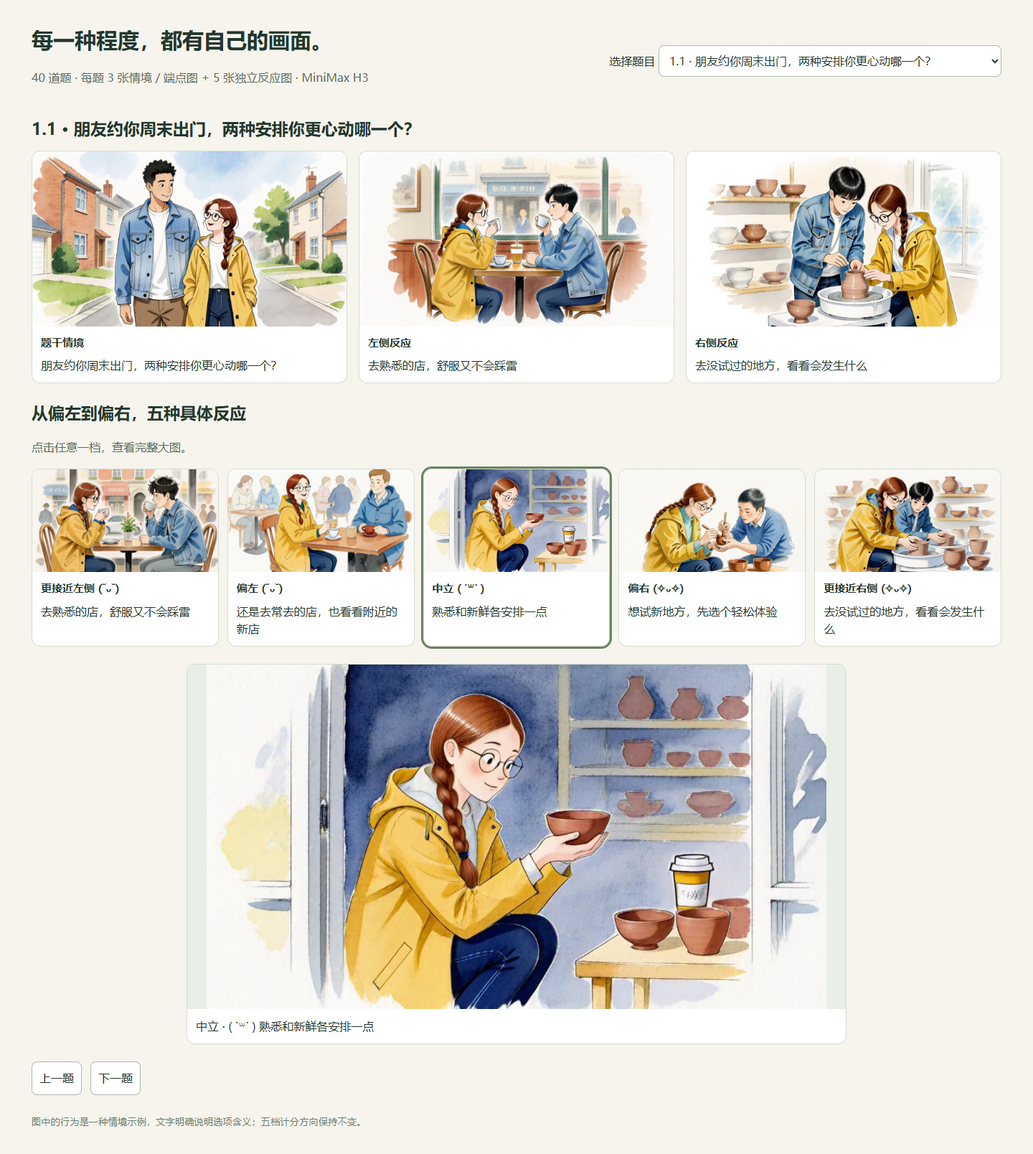
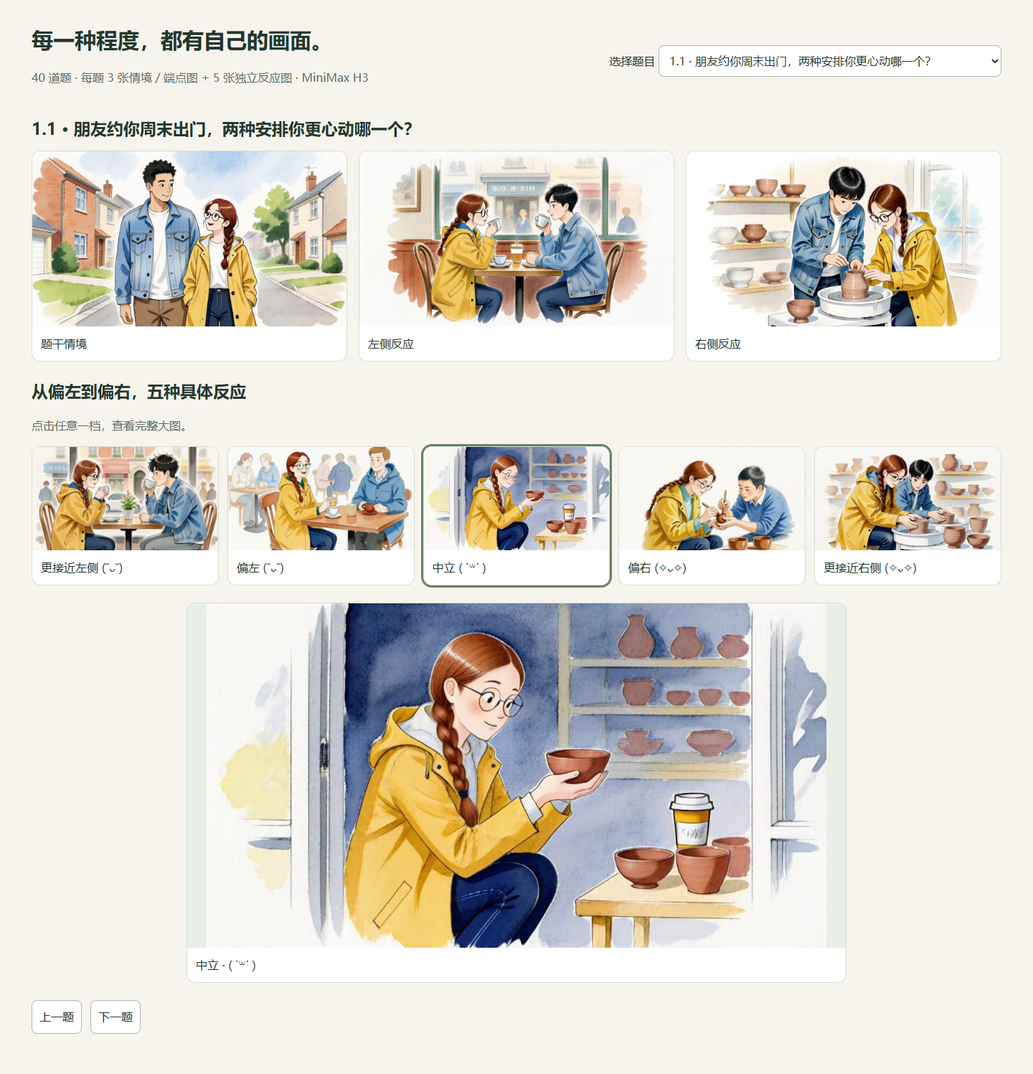
fix: show quiz reactions through images without explanatory captions

diff --git a/docs/五档题图预览.html b/docs/五档题图预览.html
@@ -1,9 +1,9 @@
 <!doctype html><html lang="zh-CN"><meta charset="utf-8"><meta name="viewport" content="width=device-width,initial-scale=1"><title>40 题 · 五档反应图预览</title>
 <style>*{box-sizing:border-box}body{margin:0;background:#f6f4ed;color:#23372d;font:16px/1.6 system-ui,sans-serif}main{max-width:1400px;margin:auto;padding:32px 24px}header{display:flex;justify-content:space-between;gap:24px;align-items:center}h1{font-size:30px;margin:0}p{color:#5c6b60}select,button{font:inherit;padding:10px;border:1px solid #aab9ad;border-radius:8px;background:#fff;color:#23372d}select{max-width:100%}h2{font-size:23px;margin:24px 0 12px}h3{font-size:15px;margin:0 0 8px}figure{margin:0;background:white;border:1px solid #d3ddd0;border-radius:12px;overflow:hidden}img{display:block;width:100%;height:auto;aspect-ratio:9/5;object-fit:contain;background:#e9eee6}figcaption{padding:12px;line-height:1.5}.originals{display:grid;grid-template-columns:repeat(3,1fr);gap:16px}.degrees{display:grid;grid-template-columns:repeat(5,1fr);gap:12px}.degrees figure{cursor:pointer}.degrees figure.active{outline:3px solid #698363}.face{display:block;margin-bottom:6px;color:#697f57}.detail{margin:24px auto;max-width:920px}.detail img{max-height:480px}small{color:#6b7b6e}.nav{display:flex;gap:12px;margin:24px 0}.nav button{cursor:pointer}@media(max-width:800px){header{display:block}select{margin-top:15px}.originals{grid-template-columns:1fr}.degrees{grid-template-columns:repeat(2,1fr)}h1{font-size:24px}main{padding:20px 14px}}</style>
-<main><header><div><h1>每一种程度，都有自己的画面。</h1><p>40 道题 · 每题 3 张情境／端点图 + 5 张独立反应图 · MiniMax H3</p></div><label>选择题目 <select id="question"></select></label></header><h2 id="title"></h2><section class="originals" id="originals"></section><h2>从偏左到偏右，五种具体反应</h2><p>点击任意一档，查看完整大图。</p><section class="degrees" id="degrees"></section><figure class="detail" id="detail"></figure><div class="nav"><button id="previous">上一题</button><button id="next">下一题</button></div><small>图中的行为是一种情境示例，文字明确说明选项含义；五档计分方向保持不变。</small></main>
+<main><header><div><h1>每一种程度，都有自己的画面。</h1><p>40 道题 · 每题 3 张情境／端点图 + 5 张独立反应图 · MiniMax H3</p></div><label>选择题目 <select id="question"></select></label></header><h2 id="title"></h2><section class="originals" id="originals"></section><h2>从偏左到偏右，五种具体反应</h2><p>点击任意一档，查看完整大图。</p><section class="degrees" id="degrees"></section><figure class="detail" id="detail"></figure><div class="nav"><button id="previous">上一题</button><button id="next">下一题</button></div></main>
 <script>const questions=[{"id":"1.1","prompt":"朋友约你周末出门，两种安排你更心动哪一个？","options":["去熟悉的店，舒服又不会踩雷","去没试过的地方，看看会发生什么"],"reactions":[{"caption":"去熟悉的店，舒服又不会踩雷","face":"(˘ᴗ˘)","symbol":"☕"},{"caption":"还是去常去的店，也看看附近的新店","face":"(˘ᴗ˘)","symbol":"☕"},{"caption":"熟悉和新鲜各安排一点","face":"( ˙꒳˙ )","symbol":"↔"},{"caption":"想试新地方，先选个轻松体验","face":"(✧ᴗ✧)","symbol":"🏺"},{"caption":"去没试过的地方，看看会发生什么","face":"(✧ᴗ✧)","symbol":"🏺"}]},{"id":"2.1","prompt":"周五要交的东西，你周三就有空做完。你通常会？","options":["提前完成，后面两天心里踏实","先做别的，临近截止再集中完成"],"reactions":[{"caption":"提前完成，后面两天心里踏实","face":"(˘ᴗ˘)","symbol":"✓"},{"caption":"先完成大部分，留一点收尾","face":"(˘ᴗ˘)","symbol":"✓"},{"caption":"工作和休息交替安排","face":"( ˙꒳˙ )","symbol":"↔"},{"caption":"先放松一下，但留出准备时间","face":"(^ᴗ^)","symbol":"🎸"},{"caption":"先做别的，临近截止再集中完成","face":"(^ᴗ^)","symbol":"🎸"}]},{"id":"3.1","prompt":"朋友讲错了一个你熟悉的细节，大家正聊得开心。你会？","options":["自然地补充一下，事情还是说准好","先接着聊，找私下的机会再提醒"],"reactions":[{"caption":"自然地补充一下，事情还是说准好","face":"(・○・)","symbol":"👥"},{"caption":"轻轻补充一句，不打断气氛","face":"(・○・)","symbol":"👥"},{"caption":"等聊天停一停，再自然补充","face":"( ˙꒳˙ )","symbol":"↔"},{"caption":"先接住话题，散场再轻声提醒","face":"(・ᴗ・)","symbol":"🤫"},{"caption":"先接着聊，找私下的机会再提醒","face":"(・ᴗ・)","symbol":"🤫"}]},{"id":"4.1","prompt":"朋友说“要是人生能存档就好了”，你更容易接哪句？","options":["那能试多少种不同的人生啊？","先把眼前这关过好，再想下一关"],"reactions":[{"caption":"那能试多少种不同的人生啊？","face":"(✧○✧)","symbol":"🌌"},{"caption":"想象别的人生，也想想当前这一关","face":"(✧○✧)","symbol":"🌌"},{"caption":"聊聊脑洞，再回到眼前的游戏","face":"( ˙꒳˙ )","symbol":"↔"},{"caption":"先玩眼前这关，偶尔接个脑洞","face":"(・ᴗ・)","symbol":"🎮"},{"caption":"先把眼前这关过好，再想下一关","face":"(・ᴗ・)","symbol":"🎮"}]},{"id":"5.1","prompt":"来到一个没什么熟人的聚会，你更可能？","options":["找个话题，先认识身边的人","先安静待着，等自然的聊天机会"],"reactions":[{"caption":"找个话题，先认识身边的人","face":"(＾▽＾)","symbol":"👋"},{"caption":"先和身边一个人聊几句","face":"(＾▽＾)","symbol":"👋"},{"caption":"先观察，遇到合适的人再聊","face":"( ˙꒳˙ )","symbol":"↔"},{"caption":"主要安静待着，有人来就聊两句","face":"(˘ᴗ˘)","symbol":"🍰"},{"caption":"先安静待着，等自然的聊天机会","face":"(˘ᴗ˘)","symbol":"🍰"}]},{"id":"6.1","prompt":"朋友最近进步很快，群里都在夸他，你心里更接近？","options":["替他开心，也忍不住看看自己落后没","替他开心，我也有自己的进度"],"reactions":[{"caption":"替他开心，也忍不住看看自己落后没","face":"(・_・;)","symbol":"📊"},{"caption":"会比较一下，也提醒自己慢慢来","face":"(・_・;)","symbol":"📊"},{"caption":"祝福朋友，也想想自己的节奏","face":"( ˙꒳˙ )","symbol":"↔"},{"caption":"主要按自己节奏，偶尔参考朋友","face":"(˘ᴗ˘)","symbol":"🌱"},{"caption":"替他开心，我也有自己的进度","face":"(˘ᴗ˘)","symbol":"🌱"}]},{"id":"7.1","prompt":"忙了很久，终于有一个自由的下午。你更想？","options":["随心看看，什么轻松就做什么","投入一直惦记的爱好，终于有空了"],"reactions":[{"caption":"随心看看，什么轻松就做什么","face":"(˘ᴗ˘)","symbol":"🫧"},{"caption":"先轻松逛逛，有兴致再碰爱好","face":"(˘ᴗ˘)","symbol":"🫧"},{"caption":"休息一会儿，再给爱好一点时间","face":"( ˙꒳˙ )","symbol":"↔"},{"caption":"主要做爱好，也给自己留点空闲","face":"(✧ᴗ✧)","symbol":"🎨"},{"caption":"投入一直惦记的爱好，终于有空了","face":"(✧ᴗ✧)","symbol":"🎨"}]},{"id":"8.1","prompt":"和一个人越来越亲近，你对关系的期待更像哪种？","options":["聊清彼此的定位，约定让人安心","先享受相处，不急着套进固定定义"],"reactions":[{"caption":"聊清彼此的定位，约定让人安心","face":"(˘ᴗ˘)","symbol":"🤝"},{"caption":"想聊清关系，也不急着一次定完","face":"(˘ᴗ˘)","symbol":"🤝"},{"caption":"享受相处，也慢慢交流彼此期待","face":"( ˙꒳˙ )","symbol":"↔"},{"caption":"先自在相处，需要时再聊定位","face":"(^ᴗ^)","symbol":"🫧"},{"caption":"先享受相处，不急着套进固定定义","face":"(^ᴗ^)","symbol":"🫧"}]},{"id":"9.1","prompt":"难得有个空闲晚上，家人喊你一起吃饭。你更想？","options":["这次留给自己，改天再好好聚","回去围坐一桌，热闹也让人充电"],"reactions":[{"caption":"这次留给自己，改天再好好聚","face":"(˘ᴗ˘)","symbol":"📖"},{"caption":"先给家人打个招呼，今晚留给自己","face":"(˘ᴗ˘)","symbol":"📖"},{"caption":"陪家人吃一会儿，也留独处时间","face":"( ˙꒳˙ )","symbol":"↔"},{"caption":"想回去相聚，之后留一点自己的时间","face":"(^ᴗ^)","symbol":"🍲"},{"caption":"回去围坐一桌，热闹也让人充电","face":"(^ᴗ^)","symbol":"🍲"}]},{"id":"10.1","prompt":"想开始一个小创作，什么更能推动你？","options":["脑子里有个成品，想把它做出来","过程应该很好玩，先试了再看"],"reactions":[{"caption":"脑子里有个成品，想把它做出来","face":"(・ᴗ・)","symbol":"🎯"},{"caption":"有个想做的成品，细节边做边调","face":"(・ᴗ・)","symbol":"🎯"},{"caption":"先有大致方向，再边玩边完成","face":"( ˙꒳˙ )","symbol":"↔"},{"caption":"先享受尝试，慢慢形成成品想法","face":"(✧ᴗ✧)","symbol":"🎨"},{"caption":"过程应该很好玩，先试了再看","face":"(✧ᴗ✧)","symbol":"🎨"}]},{"id":"1.2","prompt":"空出半小时，你打开视频软件，更想看什么？","options":["一直在追的内容，接着看就很开心","首页的陌生主题，说不定打开新世界"],"reactions":[{"caption":"一直在追的内容，接着看就很开心","face":"(˘ᴗ˘)","symbol":"↻"},{"caption":"先看追更，顺便瞄一眼新主题","face":"(˘ᴗ˘)","symbol":"↻"},{"caption":"两种都看看，再决定追哪个","face":"( ˙꒳˙ )","symbol":"↔"},{"caption":"先试新主题，感兴趣就继续","face":"(✧○✧)","symbol":"🪐"},{"caption":"首页的陌生主题，说不定打开新世界","face":"(✧○✧)","symbol":"🪐"}]},{"id":"2.2","prompt":"和朋友约了七点见面，按导航刚好能准时到。你会？","options":["按算好的时间出门，不用多等","再提前一点，给路上留些余量"],"reactions":[{"caption":"按算好的时间出门，不用多等","face":"(・ᴗ・)","symbol":"🚪"},{"caption":"按计划走，稍微早几分钟","face":"(・ᴗ・)","symbol":"🚪"},{"caption":"看看路况，再决定要早多少","face":"( ˙꒳˙ )","symbol":"↔"},{"caption":"提前一些到，不用等太久","face":"(˘ᴗ˘)","symbol":"⌛"},{"caption":"再提前一点，给路上留些余量","face":"(˘ᴗ˘)","symbol":"⌛"}]},{"id":"3.2","prompt":"和朋友讨论分歧，对方开始不开心，你更想？","options":["先把理由说明白，再一起讨论","先照顾情绪，平静下来再聊事情"],"reactions":[{"caption":"先把理由说明白，再一起讨论","face":"(・_・)","symbol":"🧩"},{"caption":"把理由说清，也留意对方感受","face":"(・_・)","symbol":"🧩"},{"caption":"一边说明，一边听对方感受","face":"( ˙꒳˙ )","symbol":"↔"},{"caption":"先安慰，再简短说说想法","face":"(˘ᴗ˘)","symbol":"🫶"},{"caption":"先照顾情绪，平静下来再聊事情","face":"(˘ᴗ˘)","symbol":"🫶"}]},{"id":"4.2","prompt":"聚会突然安静下来，你通常会？","options":["主动抛个话题，把大家接起来","自在地等一等，不急着打破安静"],"reactions":[{"caption":"主动抛个话题，把大家接起来","face":"(＾▽＾)","symbol":"👋"},{"caption":"轻轻起个头，看看大家想不想聊","face":"(＾▽＾)","symbol":"👋"},{"caption":"先等一下，有话题再接上","face":"( ˙꒳˙ )","symbol":"↔"},{"caption":"安心享受安静，有人开口就接话","face":"(˘ᴗ˘)","symbol":"🍵"},{"caption":"自在地等一等，不急着打破安静","face":"(˘ᴗ˘)","symbol":"🍵"}]},{"id":"5.2","prompt":"有人主动问你“第一次来吗”，你会？","options":["顺势聊下去，可能就认识新朋友了","礼貌回应几句，继续做自己的事"],"reactions":[{"caption":"顺势聊下去，可能就认识新朋友了","face":"(^ᴗ^)","symbol":"🤝"},{"caption":"聊一小会儿，看看是否投缘","face":"(^ᴗ^)","symbol":"🤝"},{"caption":"礼貌聊几句，再看想不想继续","face":"( ˙꒳˙ )","symbol":"↔"},{"caption":"简单回应，感兴趣的话题再多聊","face":"(˘ᴗ˘)","symbol":"🖼"},{"caption":"礼貌回应几句，继续做自己的事","face":"(˘ᴗ˘)","symbol":"🖼"}]},{"id":"6.2","prompt":"你刚学的东西，朋友说自己早就会了。你会？","options":["正好请教一下，按自己的节奏学","有点受刺激，想尽快追上他的水平"],"reactions":[{"caption":"正好请教一下，按自己的节奏学","face":"(・○・)","symbol":"🤝"},{"caption":"请教为主，也想练得更熟一点","face":"(・○・)","symbol":"🤝"},{"caption":"向朋友学，也给自己一点挑战","face":"( ˙꒳˙ )","symbol":"↔"},{"caption":"想快点追上，也愿意请教方法","face":"(ง•̀_•́)ง","symbol":"✍"},{"caption":"有点受刺激，想尽快追上他的水平","face":"(ง•̀_•́)ง","symbol":"✍"}]},{"id":"7.2","prompt":"喜欢的事迟迟没进展，另一个方向更容易出成果。你会？","options":["试试新方向，现在的机会也值得抓","再给喜欢的事一些时间，还想继续"],"reactions":[{"caption":"试试新方向，现在的机会也值得抓","face":"(・ᴗ・)","symbol":"↗"},{"caption":"多试新方向，旧爱好也先留着","face":"(・ᴗ・)","symbol":"↗"},{"caption":"两个方向都试一阵再决定","face":"( ˙꒳˙ )","symbol":"↔"},{"caption":"继续喜欢的事，也小试别的机会","face":"(ง•̀ᴗ•́)ง","symbol":"🌱"},{"caption":"再给喜欢的事一些时间，还想继续","face":"(ง•̀ᴗ•́)ง","symbol":"🌱"}]},{"id":"8.2","prompt":"两种生活地图摆在面前，你更愿意选哪张？","options":["路标清楚，能到达期待的地方","留着很多空白，可以画自己的路"],"reactions":[{"caption":"路标清楚，能到达期待的地方","face":"(・ᴗ・)","symbol":"📍"},{"caption":"沿清楚路线走，也留一点绕路空间","face":"(・ᴗ・)","symbol":"📍"},{"caption":"参考现成路线，再添自己的选择","face":"( ˙꒳˙ )","symbol":"↔"},{"caption":"主要画自己的路，保留有用路标","face":"(✧ᴗ✧)","symbol":"✏"},{"caption":"留着很多空白，可以画自己的路","face":"(✧ᴗ✧)","symbol":"✏"}]},{"id":"9.2","prompt":"和很亲近的人相处，哪种日常更让你舒服？","options":["彼此在意，也保留一点私人空间","很多小事都想分享，常常保持联系"],"reactions":[{"caption":"彼此在意，也保留一点私人空间","face":"(˘ᴗ˘)","symbol":"📖"},{"caption":"各做各的，偶尔分享一个小发现","face":"(˘ᴗ˘)","symbol":"📖"},{"caption":"有时一起分享，有时各自放松","face":"( ˙꒳˙ )","symbol":"↔"},{"caption":"常常分享，也给彼此一点安静","face":"(^ᴗ^)","symbol":"🤝"},{"caption":"很多小事都想分享，常常保持联系","face":"(^ᴗ^)","symbol":"🤝"}]},{"id":"10.2","prompt":"出门办事，路上发现一条很有意思的小街。你会？","options":["先把原定的事办完，再考虑绕回来","进去逛逛，沿途的发现也很重要"],"reactions":[{"caption":"先把原定的事办完，再考虑绕回来","face":"(・ᴗ・)","symbol":"🎯"},{"caption":"先办正事，把小街记下来","face":"(・ᴗ・)","symbol":"🎯"},{"caption":"先看时间，够用就短暂停一下","face":"( ˙꒳˙ )","symbol":"↔"},{"caption":"先逛一会儿，也记得原定的事","face":"(✧○✧)","symbol":"↗"},{"caption":"进去逛逛，沿途的发现也很重要","face":"(✧○✧)","symbol":"↗"}]},{"id":"1.3","prompt":"朋友对你很确定的一件事提出了新解释，你会？","options":["追问一下，也许有我没见过的角度","先保留判断，熟悉的经验更让我信服"],"reactions":[{"caption":"追问一下，也许有我没见过的角度","face":"(・○・)","symbol":"🔎"},{"caption":"愿意追问，也拿旧经验对照","face":"(・○・)","symbol":"🔎"},{"caption":"两种解释先放在一起比较","face":"( ˙꒳˙ )","symbol":"↔"},{"caption":"先信熟悉经验，也听听新解释","face":"(˘_˘)","symbol":"📒"},{"caption":"先保留判断，熟悉的经验更让我信服","face":"(˘_˘)","symbol":"📒"}]},{"id":"2.3","prompt":"明早要赶早班车，你今晚更可能怎么准备？","options":["东西装好，路线和闹钟都确认","带上必需品，明早看情况再安排"],"reactions":[{"caption":"东西装好，路线和闹钟都确认","face":"(・ᴗ・)","symbol":"🧳"},{"caption":"主要都备好，小细节明早再说","face":"(・ᴗ・)","symbol":"🧳"},{"caption":"必需品备齐，其余看情况","face":"( ˙꒳˙ )","symbol":"↔"},{"caption":"简单准备一下，就早点休息","face":"(˘ᴗ˘)","symbol":"💤"},{"caption":"带上必需品，明早看情况再安排","face":"(˘ᴗ˘)","symbol":"💤"}]},{"id":"3.3","prompt":"小组里两个人争起来，请你帮忙判断，你会先？","options":["听清各自的依据，看看哪边说得通","弄清各自的感受，先缓和下来"],"reactions":[{"caption":"听清各自的依据，看看哪边说得通","face":"(・_・)","symbol":"⚖"},{"caption":"先看依据，也听听双方委屈","face":"(・_・)","symbol":"⚖"},{"caption":"事实和感受都听完整","face":"( ˙꒳˙ )","symbol":"↔"},{"caption":"先缓和气氛，再核对依据","face":"(˘ᴗ˘)","symbol":"🫶"},{"caption":"弄清各自的感受，先缓和下来","face":"(˘ᴗ˘)","symbol":"🫶"}]},{"id":"4.3","prompt":"朋友发来一个奇怪的小谜题，你第一反应是？","options":["先解出来，看看答案是什么","他为什么问这个，背后有故事吗"],"reactions":[{"caption":"先解出来，看看答案是什么","face":"(・_・)","symbol":"🧩"},{"caption":"先试着解，也好奇朋友为什么问","face":"(・_・)","symbol":"🧩"},{"caption":"边解谜，边问问背后的故事","face":"( ˙꒳˙ )","symbol":"↔"},{"caption":"先问缘由，也顺手试解一下","face":"(・○・)","symbol":"👤"},{"caption":"他为什么问这个，背后有故事吗","face":"(・○・)","symbol":"👤"}]},{"id":"5.3","prompt":"刚认识的人说“改天一起玩”，你通常会？","options":["接着约时间，让下次真的发生","先留着联系，等合适的机会再说"],"reactions":[{"caption":"接着约时间，让下次真的发生","face":"(^ᴗ^)","symbol":"📅"},{"caption":"先提一个时间，对方方便再定","face":"(^ᴗ^)","symbol":"📅"},{"caption":"交换联系方式，看看彼此安排","face":"( ˙꒳˙ )","symbol":"↔"},{"caption":"先保持联系，暂时不定具体时间","face":"(˘ᴗ˘)","symbol":"👋"},{"caption":"先留着联系，等合适的机会再说","face":"(˘ᴗ˘)","symbol":"👋"}]},{"id":"6.3","prompt":"大家都在晒最近的成果，你更自然的反应是？","options":["看看就好，接着做自己的事","多看几遍，确认自己有没有掉队"],"reactions":[{"caption":"看看就好，接着做自己的事","face":"(˘ᴗ˘)","symbol":"🌱"},{"caption":"看一会儿，给自己的项目找灵感","face":"(˘ᴗ˘)","symbol":"🌱"},{"caption":"参考别人的成果，也看自己的进展","face":"( ˙꒳˙ )","symbol":"↔"},{"caption":"会多比较，但也提醒自己别太急","face":"(・_・;)","symbol":"📊"},{"caption":"多看几遍，确认自己有没有掉队","face":"(・_・;)","symbol":"📊"}]},{"id":"7.3","prompt":"很在意的目标遇到变化，需要改掉大半计划。你会？","options":["重新看看现在想要什么，目标也能换","方式可以换，核心愿望还想留住"],"reactions":[{"caption":"重新看看现在想要什么，目标也能换","face":"(・○・)","symbol":"🧭"},{"caption":"愿意调整目标，保留在意的部分","face":"(・○・)","symbol":"🧭"},{"caption":"重新衡量目标和实现方式","face":"( ˙꒳˙ )","symbol":"↔"},{"caption":"保留核心目标，其他部分可以变","face":"(・ᴗ・)","symbol":"🎯"},{"caption":"方式可以换，核心愿望还想留住","face":"(・ᴗ・)","symbol":"🎯"}]},{"id":"8.3","prompt":"大家说“这件事一直就是这么做的”，你会？","options":["现有做法能用，先按惯例推进","问问为什么，也许有另一种办法"],"reactions":[{"caption":"现有做法能用，先按惯例推进","face":"(・ᴗ・)","symbol":"↻"},{"caption":"先照常做，顺手看看哪里能改善","face":"(・ᴗ・)","symbol":"↻"},{"caption":"先理解做法，再决定要不要调整","face":"( ˙꒳˙ )","symbol":"↔"},{"caption":"试个新办法，也保留有效的步骤","face":"(・○・)","symbol":"💡"},{"caption":"问问为什么，也许有另一种办法","face":"(・○・)","symbol":"💡"}]},{"id":"9.3","prompt":"朋友群里总在分享吃了什么、走到哪里，你通常？","options":["偶尔看看，自己的日常留给自己","也发一点小事，参与彼此的生活"],"reactions":[{"caption":"偶尔看看，自己的日常留给自己","face":"(˘ᴗ˘)","symbol":"🔒"},{"caption":"大多看看，偶尔回应一下","face":"(˘ᴗ˘)","symbol":"🔒"},{"caption":"想分享的小事才发出来","face":"( ˙꒳˙ )","symbol":"↔"},{"caption":"经常分享，也保留一些私人时刻","face":"(^ᴗ^)","symbol":"📷"},{"caption":"也发一点小事，参与彼此的生活","face":"(^ᴗ^)","symbol":"📷"}]},{"id":"10.3","prompt":"几场想去的活动撞了时间，你更倾向？","options":["挑最想去的一场，从头体验到尾","每场感受一点，多看看不同内容"],"reactions":[{"caption":"挑最想去的一场，从头体验到尾","face":"(˘ᴗ˘)","symbol":"🎟"},{"caption":"以最想去的一场为主，顺便看看别的","face":"(˘ᴗ˘)","symbol":"🎟"},{"caption":"挑一场深入，再逛一场感兴趣的","face":"( ˙꒳˙ )","symbol":"↔"},{"caption":"多走几场，特别喜欢的就多待一会儿","face":"(✧ᴗ✧)","symbol":"↔"},{"caption":"每场感受一点，多看看不同内容","face":"(✧ᴗ✧)","symbol":"↔"}]},{"id":"1.4","prompt":"和朋友去陌生城市吃饭，你更偏向哪家？","options":["吃过的连锁店，味道心里有数","没见过的小店，试试当地的新鲜感"],"reactions":[{"caption":"吃过的连锁店，味道心里有数","face":"(˘ᴗ˘)","symbol":"🍱"},{"caption":"大多选熟悉的，也尝一口当地味","face":"(˘ᴗ˘)","symbol":"🍱"},{"caption":"熟悉的主食配一道当地菜","face":"( ˙꒳˙ )","symbol":"↔"},{"caption":"选当地小店，先试容易接受的菜","face":"(✧ᴗ✧)","symbol":"🍜"},{"caption":"没见过的小店，试试当地的新鲜感","face":"(✧ᴗ✧)","symbol":"🍜"}]},{"id":"2.4","prompt":"群里在约下周的聚会，你更喜欢哪种安排？","options":["早点定时间地点，方便安排其他事","先约着，到时候再看大家的兴致"],"reactions":[{"caption":"早点定时间地点，方便安排其他事","face":"(・ᴗ・)","symbol":"📅"},{"caption":"先定大致安排，还能小调整","face":"(・ᴗ・)","symbol":"📅"},{"caption":"先圈几个时间，大家再商量","face":"( ˙꒳˙ )","symbol":"↔"},{"caption":"先留个空档，细节临近再定","face":"(˘ᴗ˘)","symbol":"🎧"},{"caption":"先约着，到时候再看大家的兴致","face":"(˘ᴗ˘)","symbol":"🎧"}]},{"id":"3.4","prompt":"朋友很期待一个计划，但你看出了明显的问题。你会？","options":["把风险说具体，免得之后吃亏","先理解他的期待，再慢慢提建议"],"reactions":[{"caption":"把风险说具体，免得之后吃亏","face":"(・_・)","symbol":"🔎"},{"caption":"说明主要风险，也肯定他的期待","face":"(・_・)","symbol":"🔎"},{"caption":"先聊期待，再一起找问题","face":"( ˙꒳˙ )","symbol":"↔"},{"caption":"先支持他，找机会提一个建议","face":"(˘ᴗ˘)","symbol":"☕"},{"caption":"先理解他的期待，再慢慢提建议","face":"(˘ᴗ˘)","symbol":"☕"}]},{"id":"4.4","prompt":"电影散场后，朋友开始讨论没讲明的结局。你会？","options":["按已经演出来的剧情理解就好","忍不住脑补，接着推演别的可能"],"reactions":[{"caption":"按已经演出来的剧情理解就好","face":"(・ᴗ・)","symbol":"🎞"},{"caption":"主要按剧情理解，也听听猜想","face":"(・ᴗ・)","symbol":"🎞"},{"caption":"剧情证据和想象都聊聊","face":"( ˙꒳˙ )","symbol":"↔"},{"caption":"顺着剧情想象另一种可能","face":"(✧○✧)","symbol":"🚀"},{"caption":"忍不住脑补，接着推演别的可能","face":"(✧○✧)","symbol":"🚀"}]},{"id":"5.4","prompt":"旅途中，邻座很想和你聊聊天。你更接近？","options":["聊聊彼此的故事，路上也挺有趣","简单回应，想保留自己的时间"],"reactions":[{"caption":"聊聊彼此的故事，路上也挺有趣","face":"(＾▽＾)","symbol":"👥"},{"caption":"聊一阵，也留一点自己的时间","face":"(＾▽＾)","symbol":"👥"},{"caption":"聊聊、看看书，都挺舒服","face":"( ˙꒳˙ )","symbol":"↔"},{"caption":"简短回应，之后继续看书","face":"(˘ᴗ˘)","symbol":"📖"},{"caption":"简单回应，想保留自己的时间","face":"(˘ᴗ˘)","symbol":"📖"}]},{"id":"6.4","prompt":"和特别厉害的人组队，你更多感受到？","options":["安心，能学习，也能贡献自己的部分","压力，担心不够好拖了后腿"],"reactions":[{"caption":"安心，能学习，也能贡献自己的部分","face":"(^ᴗ^)","symbol":"🤝"},{"caption":"大多觉得安心，重要环节多检查","face":"(^ᴗ^)","symbol":"🤝"},{"caption":"既期待学习，也有一点压力","face":"( ˙꒳˙ )","symbol":"↔"},{"caption":"有些紧张，但会主动请教","face":"(・_・;)","symbol":"🔎"},{"caption":"压力，担心不够好拖了后腿","face":"(・_・;)","symbol":"🔎"}]},{"id":"7.4","prompt":"朋友问“以后想过怎样的生活”，你更接近？","options":["有一些在意的方向，想慢慢靠近","还想多体验，答案也许会变化"],"reactions":[{"caption":"有一些在意的方向，想慢慢靠近","face":"(・ᴗ・)","symbol":"🎯"},{"caption":"有想靠近的生活，也愿意调整","face":"(・ᴗ・)","symbol":"🎯"},{"caption":"有些方向明确，有些还想体验","face":"( ˙꒳˙ )","symbol":"↔"},{"caption":"多体验为主，也记住当下喜欢什么","face":"(✧ᴗ✧)","symbol":"🧭"},{"caption":"还想多体验，答案也许会变化","face":"(✧ᴗ✧)","symbol":"🧭"}]},{"id":"8.4","prompt":"眼前有一条大家认可的稳妥路线，你更想？","options":["沿着成熟路径走，少绕一些弯路","留一点空间，试试自己的走法"],"reactions":[{"caption":"沿着成熟路径走，少绕一些弯路","face":"(˘ᴗ˘)","symbol":"🛤"},{"caption":"主要走稳妥路线，偶尔看看岔路","face":"(˘ᴗ˘)","symbol":"🛤"},{"caption":"走一段成熟路，再试一小段自己的","face":"( ˙꒳˙ )","symbol":"↔"},{"caption":"探索自己的走法，也参考成熟路线","face":"(✧ᴗ✧)","symbol":"🧭"},{"caption":"留一点空间，试试自己的走法","face":"(✧ᴗ✧)","symbol":"🧭"}]},{"id":"9.4","prompt":"聚会结束，亲近的朋友们喊着再续一摊，你更想？","options":["今天很开心了，回去独处一会儿","难得聚齐，再多待一阵也很好"],"reactions":[{"caption":"今天很开心了，回去独处一会儿","face":"(˘ᴗ˘)","symbol":"🏠"},{"caption":"准备回家，再陪朋友聊几句","face":"(˘ᴗ˘)","symbol":"🏠"},{"caption":"看精力和气氛，再决定待多久","face":"( ˙꒳˙ )","symbol":"↔"},{"caption":"再陪一阵，累了就先回去","face":"(＾▽＾)","symbol":"👥"},{"caption":"难得聚齐，再多待一阵也很好","face":"(＾▽＾)","symbol":"👥"}]},{"id":"10.4","prompt":"手作和预想不一样，但能改成另一种东西。你会？","options":["尽量修回原样，完成最初的想法","顺着变化做下去，看看会得到什么"],"reactions":[{"caption":"尽量修回原样，完成最初的想法","face":"(・_・)","symbol":"🏺"},{"caption":"尽量做回原样，接受一点小变化","face":"(・_・)","symbol":"🏺"},{"caption":"比较两种可能，选现在更喜欢的","face":"( ˙꒳˙ )","symbol":"↔"},{"caption":"顺着变化做，留一点最初的想法","face":"(✧ᴗ✧)","symbol":"🪴"},{"caption":"顺着变化做下去，看看会得到什么","face":"(✧ᴗ✧)","symbol":"🪴"}]}];const labels=['更接近左侧','偏左','中立','偏右','更接近右侧'];const select=document.querySelector('#question');let active=0;let degree=2;for(const q of questions){const o=document.createElement('option');o.value=q.id;o.textContent=q.id+' · '+q.prompt;select.append(o)}
 function image(q,kind,caption){const img=document.createElement('img');img.src='../public/question-art/'+q.id.replace('.','-')+'/'+kind+'.webp';img.alt=caption;return img}
-function figure(q,kind,caption,label){const f=document.createElement('figure');f.append(image(q,kind,caption));const c=document.createElement('figcaption');if(label){const h=document.createElement('h3');h.textContent=label;c.append(h)}const p=document.createElement('span');p.textContent=caption;c.append(p);f.append(c);return f}
-function showDegree(value){degree=value;const q=questions[active],r=q.reactions[value];const detail=document.querySelector('#detail');detail.replaceChildren(image(q,'scale-'+value,r.caption));const cap=document.createElement('figcaption');cap.textContent=labels[value]+' · '+r.face+' '+r.caption;detail.append(cap);document.querySelectorAll('#degrees figure').forEach((f,i)=>{f.classList.toggle('active',i===value);f.setAttribute('aria-pressed',String(i===value))})}
+function figure(q,kind,caption,label){const f=document.createElement('figure');f.append(image(q,kind,caption));if(label){const c=document.createElement('figcaption');c.textContent=label;f.append(c)}return f}
+function showDegree(value){degree=value;const q=questions[active],r=q.reactions[value];const detail=document.querySelector('#detail');detail.replaceChildren(image(q,'scale-'+value,r.caption));const cap=document.createElement('figcaption');cap.textContent=labels[value]+' · '+r.face;detail.append(cap);document.querySelectorAll('#degrees figure').forEach((f,i)=>{f.classList.toggle('active',i===value);f.setAttribute('aria-pressed',String(i===value))})}
 function render(){const q=questions[active];select.value=q.id;document.querySelector('#title').textContent=q.id+' · '+q.prompt;const originals=document.querySelector('#originals');originals.replaceChildren(...['scene','left','right'].map((kind,i)=>figure(q,kind,i===0?q.prompt:q.options[i-1],['题干情境','左侧反应','右侧反应'][i])));const degrees=document.querySelector('#degrees');degrees.replaceChildren(...q.reactions.map((r,i)=>{const f=figure(q,'scale-'+i,r.caption,labels[i]+' '+r.face);f.tabIndex=0;f.setAttribute('role','button');f.onclick=()=>showDegree(i);f.onkeydown=e=>{if(e.key==='Enter'||e.key===' '){e.preventDefault();showDegree(i)}};return f}));showDegree(degree);document.querySelector('#previous').disabled=active===0;document.querySelector('#next').disabled=active===questions.length-1}
 select.onchange=()=>{active=questions.findIndex(q=>q.id===select.value);render()};document.querySelector('#previous').onclick=()=>{active--;render()};document.querySelector('#next').onclick=()=>{active++;render()};render();</script></html>

diff --git a/src/question-art.css b/src/question-art.css
@@ -1,22 +1,19 @@
 /* Every question is a scene and two illustrated reactions. */
 .quiz-page .quiz-layout { padding-top:24px; gap:34px; }
 .quiz-page .question-content { margin-top:16px; }
-.question-scene { position:relative; height:240px; overflow:hidden; border:1px solid #526558; border-radius:10px; background:#243b30; }
+.question-scene { position:relative; display:grid; grid-template-rows:minmax(0,1fr) auto; height:280px; overflow:hidden; border:1px solid #526558; border-radius:10px; background:#243b30; }
 .question-art { display:block; overflow:hidden; background:#243b30; }
 .question-art img { display:block; width:100%; height:100%; object-fit:cover; }
-.question-scene>.question-art { width:100%; height:100%; }
-.question-scene>.question-art img { object-position:center 15%; }
-.quiz-page .question-scene h1 { position:absolute; inset:auto 0 0; min-height:0; margin:0; padding:32px 22px 17px; background:linear-gradient(transparent,#101b17ed 45%); font-size:23px; line-height:1.5; color:#fffaf0; text-shadow:0 1px 3px #0006; }
+.question-scene>.question-art { width:100%; height:100%; min-height:0; }
+.question-scene>.question-art img { object-fit:contain; object-position:center; }
+.quiz-page .question-scene h1 { position:static; min-height:0; margin:0; padding:12px 18px; background:#1c2922; font-size:20px; line-height:1.5; color:#fffaf0; }
 .quiz-page .question-content .answer-scale { margin-top:16px; }
-.quiz-page .answer-scale-anchor.illustrated-choice { padding:0 0 13px; overflow:hidden; position:relative; border-radius:9px; min-height:0; background:#1c2922; border-color:#526558; }
+.quiz-page .answer-scale-anchor.illustrated-choice { padding:0; overflow:hidden; position:relative; border-radius:9px; min-height:0; background:#1c2922; border-color:#526558; }
 .quiz-page .illustrated-choice>.question-art { width:100%; aspect-ratio:9 / 5; padding:0; }
 .quiz-page .illustrated-choice>.question-art img { object-fit:contain; }
-.quiz-page .illustrated-choice>span:not(.question-art) { padding:11px 14px 0; font-size:10px; color:#e7ca9d; }
-.quiz-page .illustrated-choice:last-child>span:not(.question-art) { color:#b8dace; }
-.quiz-page .illustrated-choice p { padding:0 14px; margin-top:4px; font-size:13px; line-height:1.6; color:#edf1ed; }
 .quiz-page .illustrated-choice.selected { border-color:#dce9d4; box-shadow:0 0 0 2px #dce9d4; background:#2d4034; }
 .quiz-page .illustrated-choice.selected::after { content:'✓'; position:absolute; top:10px; right:10px; width:28px; height:28px; display:grid; place-items:center; border-radius:50%; color:#18271e; background:#e1edda; font-size:16px; box-shadow:0 2px 8px #0005; }
-.quiz-page .answer-scale-instruction { margin:14px 0 18px; color:#bac9c0; }
+.quiz-page .answer-scale-track { margin-top:24px; }
 .quiz-page .answer-scale-labels { margin-top:8px; }
 .quiz-page .answer-scale-labels button { min-height:30px; }
 .quiz-page .answer-scale-selection { margin-top:5px; }
@@ -24,7 +21,7 @@
 .question-art-fallback { display:flex; width:100%; height:100%; min-height:64px; align-items:center; justify-content:center; gap:8px; color:#afc5b6; font-size:11px; }
 
 @media(min-width:1000px) {
-  .question-scene { display:grid; grid-template-columns:minmax(0,1.1fr) minmax(0,1fr); background:#1c2922; }
+  .question-scene { grid-template-columns:minmax(0,1.1fr) minmax(0,1fr); grid-template-rows:1fr; background:#1c2922; }
   .question-scene>.question-art img { object-fit:contain; }
   .quiz-page .question-scene h1 { position:static; display:flex; align-items:center; padding:22px; background:none; font-size:23px; text-shadow:none; }
 }
@@ -41,18 +38,15 @@
   .quiz-page .quiz-layout { padding-top:0; gap:0; }
   .quiz-page .question-section { padding-top:10px; }
   .quiz-page .question-content { margin-top:10px; justify-content:center; }
-  .question-scene { display:grid; grid-template-rows:minmax(0,1fr) auto; height:clamp(215px,30dvh,270px); flex-shrink:0; border-radius:8px; }
+  .question-scene { height:clamp(230px,32dvh,290px); flex-shrink:0; border-radius:8px; }
   .question-scene>.question-art { min-height:0; }
   .question-scene>.question-art img { object-fit:contain; object-position:center; }
   .quiz-page .question-scene h1 { position:static; padding:8px 12px; font-size:16px; line-height:1.5; background:#1c2922; text-shadow:none; }
   .quiz-page .question-content .answer-scale { margin-top:12px; }
   .quiz-page .answer-scale-anchors { gap:10px; align-items:stretch; }
-  .quiz-page .answer-scale-anchor.illustrated-choice { padding-bottom:10px; border-radius:7px; }
-  .quiz-page .illustrated-choice>span:not(.question-art) { padding:8px 10px 0; font-size:10px; }
-  .quiz-page .illustrated-choice p { padding-inline:10px; font-size:12px; line-height:1.5; margin-top:4px; }
+  .quiz-page .answer-scale-anchor.illustrated-choice { border-radius:7px; }
   .quiz-page .illustrated-choice.selected::after { width:23px; height:23px; top:6px; right:6px; font-size:13px; }
-  .quiz-page .answer-scale-instruction { margin:11px 0 16px; font-size:10px; }
-  .quiz-page .answer-scale-track { height:38px; }
+  .quiz-page .answer-scale-track { height:38px; margin-top:22px; }
   .quiz-page .answer-scale-thumb { height:48px; top:-6px; }
   .quiz-page .answer-scale-labels { margin-top:7px; }
   .quiz-page .answer-scale-labels button { min-height:26px; padding:0; font-size:9px; }
@@ -64,15 +58,11 @@
   .quiz-page .quiz-topline { padding-bottom:6px; }
   .quiz-page .question-section { padding-top:8px; }
   .quiz-page .question-content { margin-top:7px; }
-  .question-scene { height:150px; }
+  .question-scene { height:190px; }
   .quiz-page .question-scene h1 { font-size:15px; padding:5px 9px; }
   .quiz-page .question-content .answer-scale { margin-top:8px; }
-  .quiz-page .answer-scale-anchor.illustrated-choice { padding-bottom:7px; }
-  .quiz-page .illustrated-choice>.question-art { height:64px; aspect-ratio:auto; }
-  .quiz-page .illustrated-choice>span:not(.question-art) { padding:5px 8px 0; font-size:9px; }
-  .quiz-page .illustrated-choice p { padding-inline:8px; margin-top:3px; font-size:11px; line-height:1.45; }
-  .quiz-page .answer-scale-instruction { margin:7px 0 11px; }
-  .quiz-page .answer-scale-track { height:32px; }
+  .quiz-page .illustrated-choice>.question-art { height:90px; aspect-ratio:auto; }
+  .quiz-page .answer-scale-track { height:32px; margin-top:18px; }
   .quiz-page .answer-scale-thumb { height:42px; }
   .quiz-page .answer-scale-labels { margin-top:5px; }
   .quiz-page .answer-scale-labels button { min-height:22px; }
@@ -88,9 +78,13 @@
 }
 
 .question-art { position:relative; }
-.answer-reaction-caption { margin:4px 0 0; color:#dce9d4; font-size:13px; line-height:1.5; text-align:center; }
 .question-scene:has([data-kind^="scale-"]) { border-color:#c3d9b8; }
-@media(max-width:680px) { .answer-reaction-caption { font-size:11px; margin-top:2px; } }
+.question-art.art-zoomable { padding:0; border:0; min-width:0; cursor:zoom-in; color:inherit; }
+.question-art.art-zoomable:focus-visible { outline:2px solid #dce9d4; outline-offset:-3px; }
+.question-art-expand { position:absolute; top:8px; right:8px; display:grid; place-items:center; width:30px; height:30px; border-radius:50%; color:#23372d; background:#fff9ecf2; }
+.modal.image-zoom-modal { width:min(1120px,96vw); padding:48px 14px 14px; }
+.image-zoom-modal .question-art { width:100%; background:transparent; }
+.image-zoom-modal .question-art img { height:auto; max-height:calc(90dvh - 70px); object-fit:contain; }
 .question-art-cue { position:absolute; inset:8px auto auto 8px; display:flex; align-items:center; gap:6px; padding:5px 8px; border-radius:12px; background:#fff9ecf2; color:#24352b; box-shadow:0 2px 6px #0002; pointer-events:none; }
 .question-art-cue>span:first-child { font-size:19px; line-height:1; }
 .question-art-cue>span:last-child { font:600 12px/1.2 system-ui,sans-serif; white-space:nowrap; }

diff --git a/src/components/AnswerScale.jsx b/src/components/AnswerScale.jsx
@@ -3,7 +3,6 @@ import { isAnswer } from '../engine.js';
 import { SCALE_MIN, SCALE_MAX } from '../data/answer-scale.js';
 import './answer-scale.css';
 import { QuestionArt } from './QuestionArt.jsx';
-import { questionReactions } from '../data/question-reactions.js';
 
 const labels = ['更接近左侧', '偏左', '中立', '偏右', '更接近右侧'];
 const middle = (SCALE_MIN + SCALE_MAX) / 2;
@@ -38,13 +37,11 @@ export function AnswerScale({ value, options, onChoose, questionId }) {
   return <div className={`answer-scale ${answered ? 'has-answer' : ''}`}>
     <div className="answer-scale-anchors" aria-label="量表两端的反应">
       {options.map((option, index) => <button type="button" className={`answer-scale-anchor ${questionId ? 'illustrated-choice' : ''} ${answered && value === (index === 0 ? SCALE_MIN : SCALE_MAX) ? 'selected' : ''}`} onClick={() => commit(index === 0 ? SCALE_MIN : SCALE_MAX)} key={index} id={index === 0 ? 'answer-scale-left' : 'answer-scale-right'} aria-pressed={answered && value === (index === 0 ? SCALE_MIN : SCALE_MAX)} aria-label={`${index === 0 ? '左侧反应' : '右侧反应'}：${option}`}>
-        {questionId && <QuestionArt key={`${questionId}-${index}`} id={questionId} kind={index === 0 ? 'left' : 'right'} alt=""/>}
-        <span>{index === 0 ? '左侧反应' : '右侧反应'}</span><p>{option}</p>
+        {questionId ? <QuestionArt key={`${questionId}-${index}`} id={questionId} kind={index === 0 ? 'left' : 'right'} alt=""/> : <><span>{index === 0 ? '左侧反应' : '右侧反应'}</span><p>{option}</p></>}
       </button>)}
     </div>
-    <div className={`answer-scale-instruction ${answered && questionReactions[questionId] ? 'answer-reaction-caption' : ''}`} id="answer-scale-help" role="status">{answered && questionReactions[questionId] ? questionReactions[questionId][value].caption : '哪一边更像你？选一档，看看你的反应画面'}</div>
     <div ref={track} className={`answer-scale-track ${draft !== null ? 'dragging' : ''}`} role="slider" tabIndex={0}
-      aria-label="选择你的倾向" aria-describedby="answer-scale-left answer-scale-right answer-scale-help answer-scale-selection"
+      aria-label="选择你的倾向" aria-describedby="answer-scale-left answer-scale-right answer-scale-selection"
       aria-valuemin={SCALE_MIN} aria-valuemax={SCALE_MAX} aria-valuenow={displayed}
       aria-valuetext={answered || draft !== null ? `${labelFor(displayed)}，第 ${displayed + 1} / ${cellCount} 档` : '尚未选择，点击量表或按 Enter 确认中立'}
       data-selected={answered ? 'true' : 'false'}

diff --git a/src/main.jsx b/src/main.jsx
@@ -123,7 +123,7 @@ function Quiz({ quiz, setQuiz, onFinish, onRestart, storageOkay }) {
   useEffect(() => { preloadQuestionReactions(question.id); }, [question.id]);
   useEffect(() => {
     const onKey = event => {
-      if (event.defaultPrevented || event.ctrlKey || event.metaKey || event.altKey || ['INPUT', 'TEXTAREA'].includes(event.target.tagName) || event.target.closest('[role="slider"]')) return;
+      if (document.querySelector('dialog[open]') || event.defaultPrevented || event.ctrlKey || event.metaKey || event.altKey || ['INPUT', 'TEXTAREA'].includes(event.target.tagName) || event.target.closest('[role="slider"]')) return;
       if (['a', 'A', '1'].includes(event.key)) { event.preventDefault(); choose(0); }
       if (['b', 'B', '2'].includes(event.key)) { event.preventDefault(); choose(4); }
       if (event.key === 'ArrowLeft') { event.preventDefault(); previous(); }
@@ -140,7 +140,7 @@ function Quiz({ quiz, setQuiz, onFinish, onRestart, storageOkay }) {
       <section className="question-section" aria-labelledby="question-title">
         <div className="question-meta"><span>第{['一', '二', '三', '四'][actIndex]}幕 <i /> {acts[actIndex].title}</span><span>SCENE {String(index + 1).padStart(2, '0')}</span></div>
         <div className="question-content" key={question.id}><span className="question-kicker">主角请就位 · 你的第 {index + 1} 个选择</span>
-          <div className="question-scene"><QuestionArt id={question.id} kind={isAnswer(selected) ? `scale-${selected}` : 'scene'} alt={isAnswer(selected) ? `你的反应：${questionReactions[question.id][selected].caption}` : '这一次，你在故事里'} priority/><h1 id="question-title" ref={heading} tabIndex={-1}>{question.prompt}</h1></div>
+          <div className="question-scene"><QuestionArt id={question.id} kind={isAnswer(selected) ? `scale-${selected}` : 'scene'} alt={isAnswer(selected) ? `你的反应：${questionReactions[question.id][selected].caption}` : '这一次，你在故事里'} priority zoomable/><h1 id="question-title" ref={heading} tabIndex={-1}>{question.prompt}</h1></div>
           <AnswerScale value={selected} options={question.options} onChoose={choose} questionId={question.id}/>
         </div>
         {submitError && <div className="quiz-submit-error" role="alert"><p>{submitError}</p>{collectionRecovery && <button className="text-button" onClick={collectionRecovery === 'reload' ? () => window.location.reload() : onRestart}>{collectionRecovery === 'reload' ? '重新加载页面' : '重新开始测试'}<RotateCcw size={14}/></button>}</div>}

diff --git a/tests/browser/five-reactions-sharing.spec.js b/tests/browser/five-reactions-sharing.spec.js
@@ -11,13 +11,15 @@ test('each degree shows its own concrete reaction, survives reload and resets fo
     if (!localStorage.getItem(key)) localStorage.setItem(key, JSON.stringify({ version: 4, questionIds: ids, answers: {}, index: 0, submitted: false }));
   }, { key: STORAGE_KEY, ids });
   await page.goto('/#/test');
+  await expect(page.locator('.illustrated-choice p,.answer-reaction-caption,.answer-scale-instruction')).toHaveCount(0);
   const image = page.locator('.question-scene img');
   await expect(image).toHaveAttribute('src', /1-1\/scene.webp/);
   for (let value = 0; value < 5; value++) {
     await page.getByRole('button', { name: labels[value], exact: true }).click();
     await expect(image).toHaveAttribute('src', new RegExp(`1-1/scale-${value}.webp`));
     await expect.poll(() => image.evaluate(el => el.complete && el.naturalWidth >= 1000)).toBe(true);
-    await expect(page.locator('.answer-reaction-caption')).toHaveText(questionReactions['1.1'][value].caption);
+    await expect(image).toHaveAttribute('alt', `你的反应：${questionReactions['1.1'][value].caption}`);
+    await expect(page.locator('.question-content')).not.toContainText(questionReactions['1.1'][value].caption);
     await expect(page.getByRole('button', { name: '下一幕', exact: true })).toBeInViewport();
   }
   await page.reload();
@@ -33,6 +35,18 @@ test('each degree shows its own concrete reaction, survives reload and resets fo
   await page.getByRole('button', { name: '中立', exact: true }).click();
   await expect(image).toHaveAttribute('src', /scale-2.webp/);
   await expect.poll(() => image.evaluate(el => el.complete && el.naturalWidth > 0)).toBe(true);
+  const enlarge = page.getByRole('button', { name: '放大当前画面' });
+  await enlarge.click();
+  const dialog = page.getByRole('dialog', { name: '查看画面' });
+  await expect(dialog.locator('img')).toHaveAttribute('src', /1-1\/scale-2.webp/);
+  await expect.poll(() => dialog.locator('img').evaluate(el => el.complete && el.naturalWidth > 0)).toBe(true);
+  await page.keyboard.press('ArrowRight');
+  await page.keyboard.press('a');
+  await expect(page.locator('.quiz-counter')).toHaveText('01 / 20');
+  await expect(page.locator('.answer-scale-track')).toHaveAttribute('aria-valuenow', '2');
+  await page.keyboard.press('Escape');
+  await expect(dialog).toHaveCount(0);
+  await expect(enlarge).toBeFocused();
   await page.screenshot({ path: `.work/five-reactions-${testInfo.project.name}.png`, fullPage: true });
 });
 

diff --git a/src/components/QuestionArt.jsx b/src/components/QuestionArt.jsx
@@ -1,18 +1,23 @@
 import React, { useState } from 'react';
-import { ImageOff } from 'lucide-react';
+import { ImageOff, Maximize2 } from 'lucide-react';
 import { questionArt } from '../question-art.js';
 import { questionArtCues } from '../data/question-art-cues.js';
 import { questionReactions } from '../data/question-reactions.js';
+import { Modal } from './Modal.jsx';
 
-export function QuestionArt({ id, kind = 'scene', alt, priority = false }) {
+export function QuestionArt({ id, kind = 'scene', alt, priority = false, zoomable = false }) {
   const source = questionArt(id, kind);
   const [failedSource, setFailedSource] = useState(null);
+  const [expanded, setExpanded] = useState(false);
   const failed = failedSource === source;
   const cue = kind.startsWith('scale-') ? questionReactions[id]?.[Number(kind.slice(6))] : questionArtCues[id]?.[kind === 'left' ? 0 : kind === 'right' ? 1 : -1];
-  return <span className={`question-art ${failed ? 'art-unavailable' : ''}`} data-kind={kind}>
+  const Container = zoomable ? 'button' : 'span';
+  return <><Container className={`question-art ${zoomable ? 'art-zoomable' : ''} ${failed ? 'art-unavailable' : ''}`} data-kind={kind}
+    {...(zoomable ? {type:'button', 'aria-label':'放大当前画面', onClick:()=>setExpanded(true)} : {})}>
     {failed
       ? <span className="question-art-fallback" role="img" aria-label={alt}><ImageOff size={22}/><span>画面暂未加载</span></span>
       : <img key={source} src={source} alt={alt} width="1152" height="640" decoding="async" fetchPriority={priority ? 'high' : 'auto'} onError={() => setFailedSource(source)}/>}
     {cue && <span className="question-art-cue" aria-hidden="true"><span>{cue.symbol}</span><span>{cue.face}</span></span>}
-  </span>;
+    {zoomable && <span className="question-art-expand" aria-hidden="true"><Maximize2 size={16}/></span>}
+  </Container>{expanded && <Modal title="查看画面" className="image-zoom-modal" onClose={()=>setExpanded(false)}><QuestionArt id={id} kind={kind} alt={alt}/></Modal>}</>;
 }

diff --git a/tests/browser/sampled-quiz.spec.js b/tests/browser/sampled-quiz.spec.js
@@ -29,7 +29,8 @@ test('all forty questions fit in one phone screen, including both choices and na
       expect(layout.anchors.bottom).toBeLessThanOrEqual(layout.slider.top);
       expect(layout.slider.bottom).toBeLessThanOrEqual(layout.actions.top);
       await page.locator('.answer-scale-labels button').nth(2).click();
-      await expect(page.locator('.answer-reaction-caption')).toBeInViewport();
+      await expect(page.locator('.question-scene img')).toBeInViewport();
+      await expect(page.locator('.illustrated-choice p,.answer-reaction-caption')).toHaveCount(0);
       await expect(page.getByRole('button',{name:'下一幕',exact:true})).toBeInViewport();
       expect(await page.evaluate(()=>document.documentElement.scrollHeight)).toBeLessThanOrEqual(viewport.height+1);
     }

diff --git a/docs/结果页与五档题图.md b/docs/结果页与五档题图.md
@@ -12,11 +12,11 @@
 
 [查看手机答题页面](assets/five-reactions-mobile.png) · [查看朋友圈分享面板](assets/share-moments.png)
 
-每题共 8 张，全部由服务器本地 MiniMax H3 独立生成，1152 × 640 WebP，不再从三格分镜中裁切。原有 120 张题图全部替换，新增 200 张五档反应图。每题保留自己的画风、主角和色彩设计；每档用具体动作、物件、注意力及人与人的距离表达程度，配以清晰的颜文字贴纸和中文说明。
+每题共 8 张，全部由服务器本地 MiniMax H3 独立生成，1152 × 640 WebP，不再从三格分镜中裁切。原有 120 张题图全部替换，新增 200 张五档反应图。每题保留自己的画风、主角和色彩设计；每档用具体动作、物件、注意力及人与人的距离表达程度，配以颜文字贴纸。页面和预览不显示图片的解释句，左右选项也以图片呈现，仅保留题干、程度标签和操作状态。
 
 例：周末安排从“熟悉的咖啡店”逐步过渡到“看看附近新店”“喝完咖啡观察陶器”“试一次轻松的陶艺体验”“动手做陶艺”。中间档也有完整画面，不用端点图片冒充。
 
-答题前展示题干图，选择 0～4 后上方画面切换到 `scale-0.webp`～`scale-4.webp`；左右端点图仍可点击。刷新和返回上一题恢复已选图片，新题恢复题干图。手机端图片完整显示，题干放在图片下方，不遮住手和关键物件。图片失败保留原文、五档选择和下一步，切到其他档位可继续加载图片。
+答题前展示题干图，选择 0～4 后上方画面切换到 `scale-0.webp`～`scale-4.webp`；左右端点图仍可点击。点击上方画面可放大查看完整图片，关闭后继续答题。查看大图期间，答题快捷键不会误选或跳题。刷新和返回上一题恢复已选图片，新题恢复题干图。手机端图片完整显示，题干放在图片下方，不遮住手和关键物件。图片失败时五档选择和下一步仍可操作，切到其他档位可继续加载图片。选项含义仅保留在图片替代文本和按钮无障碍名称中，供读屏使用。
 
 ## 来源与复现
 
@@ -52,3 +52,5 @@ Vite、部署校验和 ZIP 打包都包含 320 张题图及清单。外部 NBTI 
 2026-10-19：23 项单元测试通过；桌面和手机浏览器共 66 项通过、3 项按设备条件跳过。覆盖全部 320 张图片解码、五档图片与文字联动、刷新／返回恢复、图片失败后的继续作答、上下分享入口一致、PNG 下载与系统文件分享、取消与复制失败回退、完整二十题流程，以及全部 40 题在 320×568 和 390×844 屏幕的未选／选中布局。
 
 素材校验确认 320 张互不相同的 WebP、40 份视觉设计、提示词与原选项顺序一致，总计 30.27 MiB。与上一提交逐张比对，原有 120 张题图全部发生变化，另有 200 张新增反应图；其中 32 张经过定向补画并核对服务器实际工作流。生产构建和 427 个公开文件的发布白名单、媒体哈希校验通过。测试使用隔离的前端采集环境，没有写入生产数据库。
+
+随后按反馈移除全部可见选项解释句和五档反应说明，增加当前画面放大查看。此次复核：23 项单元测试通过；相关浏览器测试 22 项通过、2 项按设备条件跳过，包含全部 40 题的窄屏布局、读屏名称保留、放大图后焦点恢复及快捷键隔离。构建和发布文件校验通过。上方预览图已更新为不带说明句的版本。

diff --git a/README.md b/README.md
@@ -36,7 +36,7 @@ npm run dev
 - 弹窗支持键盘焦点约束、关闭后焦点恢复。浏览器无法保存或答题记录暂时失败时提供反馈，保留当前选择。
 - 表格中的 28 个人物全部可访问，关联到 17 条原片；双人物分别匹配和分享，结果页不再并列展示同片人物。
 - 每个维度随机抽 2 道，共 20 道题、四幕，每幕 5 道。每题使用 5 档量表（0～4，2 为中立），五个标签均可点击，也可拖动或点击左右图片选择端点；支持返回修改、自动保存和继续答题。
-- 完整 40 题各有题干、左反应、右反应和五档独立反应图片，共 320 张 MiniMax H3 图片。每题有独立的人物、配色和视觉方案，涵盖水彩、黏土、像素、美漫、摄影、水墨、剪纸等；一致性约束同题八图。可直接点击图片选择，也可用量表表达程度。简短文字保留以明确选项含义，图片加载失败仍可作答。
+- 完整 40 题各有题干、左反应、右反应和五档独立反应图片，共 320 张 MiniMax H3 图片。每题有独立的人物、配色和视觉方案，涵盖水彩、黏土、像素、美漫、摄影、水墨、剪纸等；一致性约束同题八图。选项和五档反应用图片与颜文字呈现，不显示解释句；保留题干和程度标签，点击当前画面可放大查看。选项含义保留在读屏名称中，图片加载失败仍可操作量表。
 - 本轮题目与顺序随进度保存；重新测试才重新抽取。手机竖屏中题干、选项、滑杆与下一步同屏展示。
 - 人物档案、倾向雷达图、对白脚本、声音开关与独立视频下载。
 - 900×1920 角色卡导出，完整保留竖版人物画像，含作者署名。
